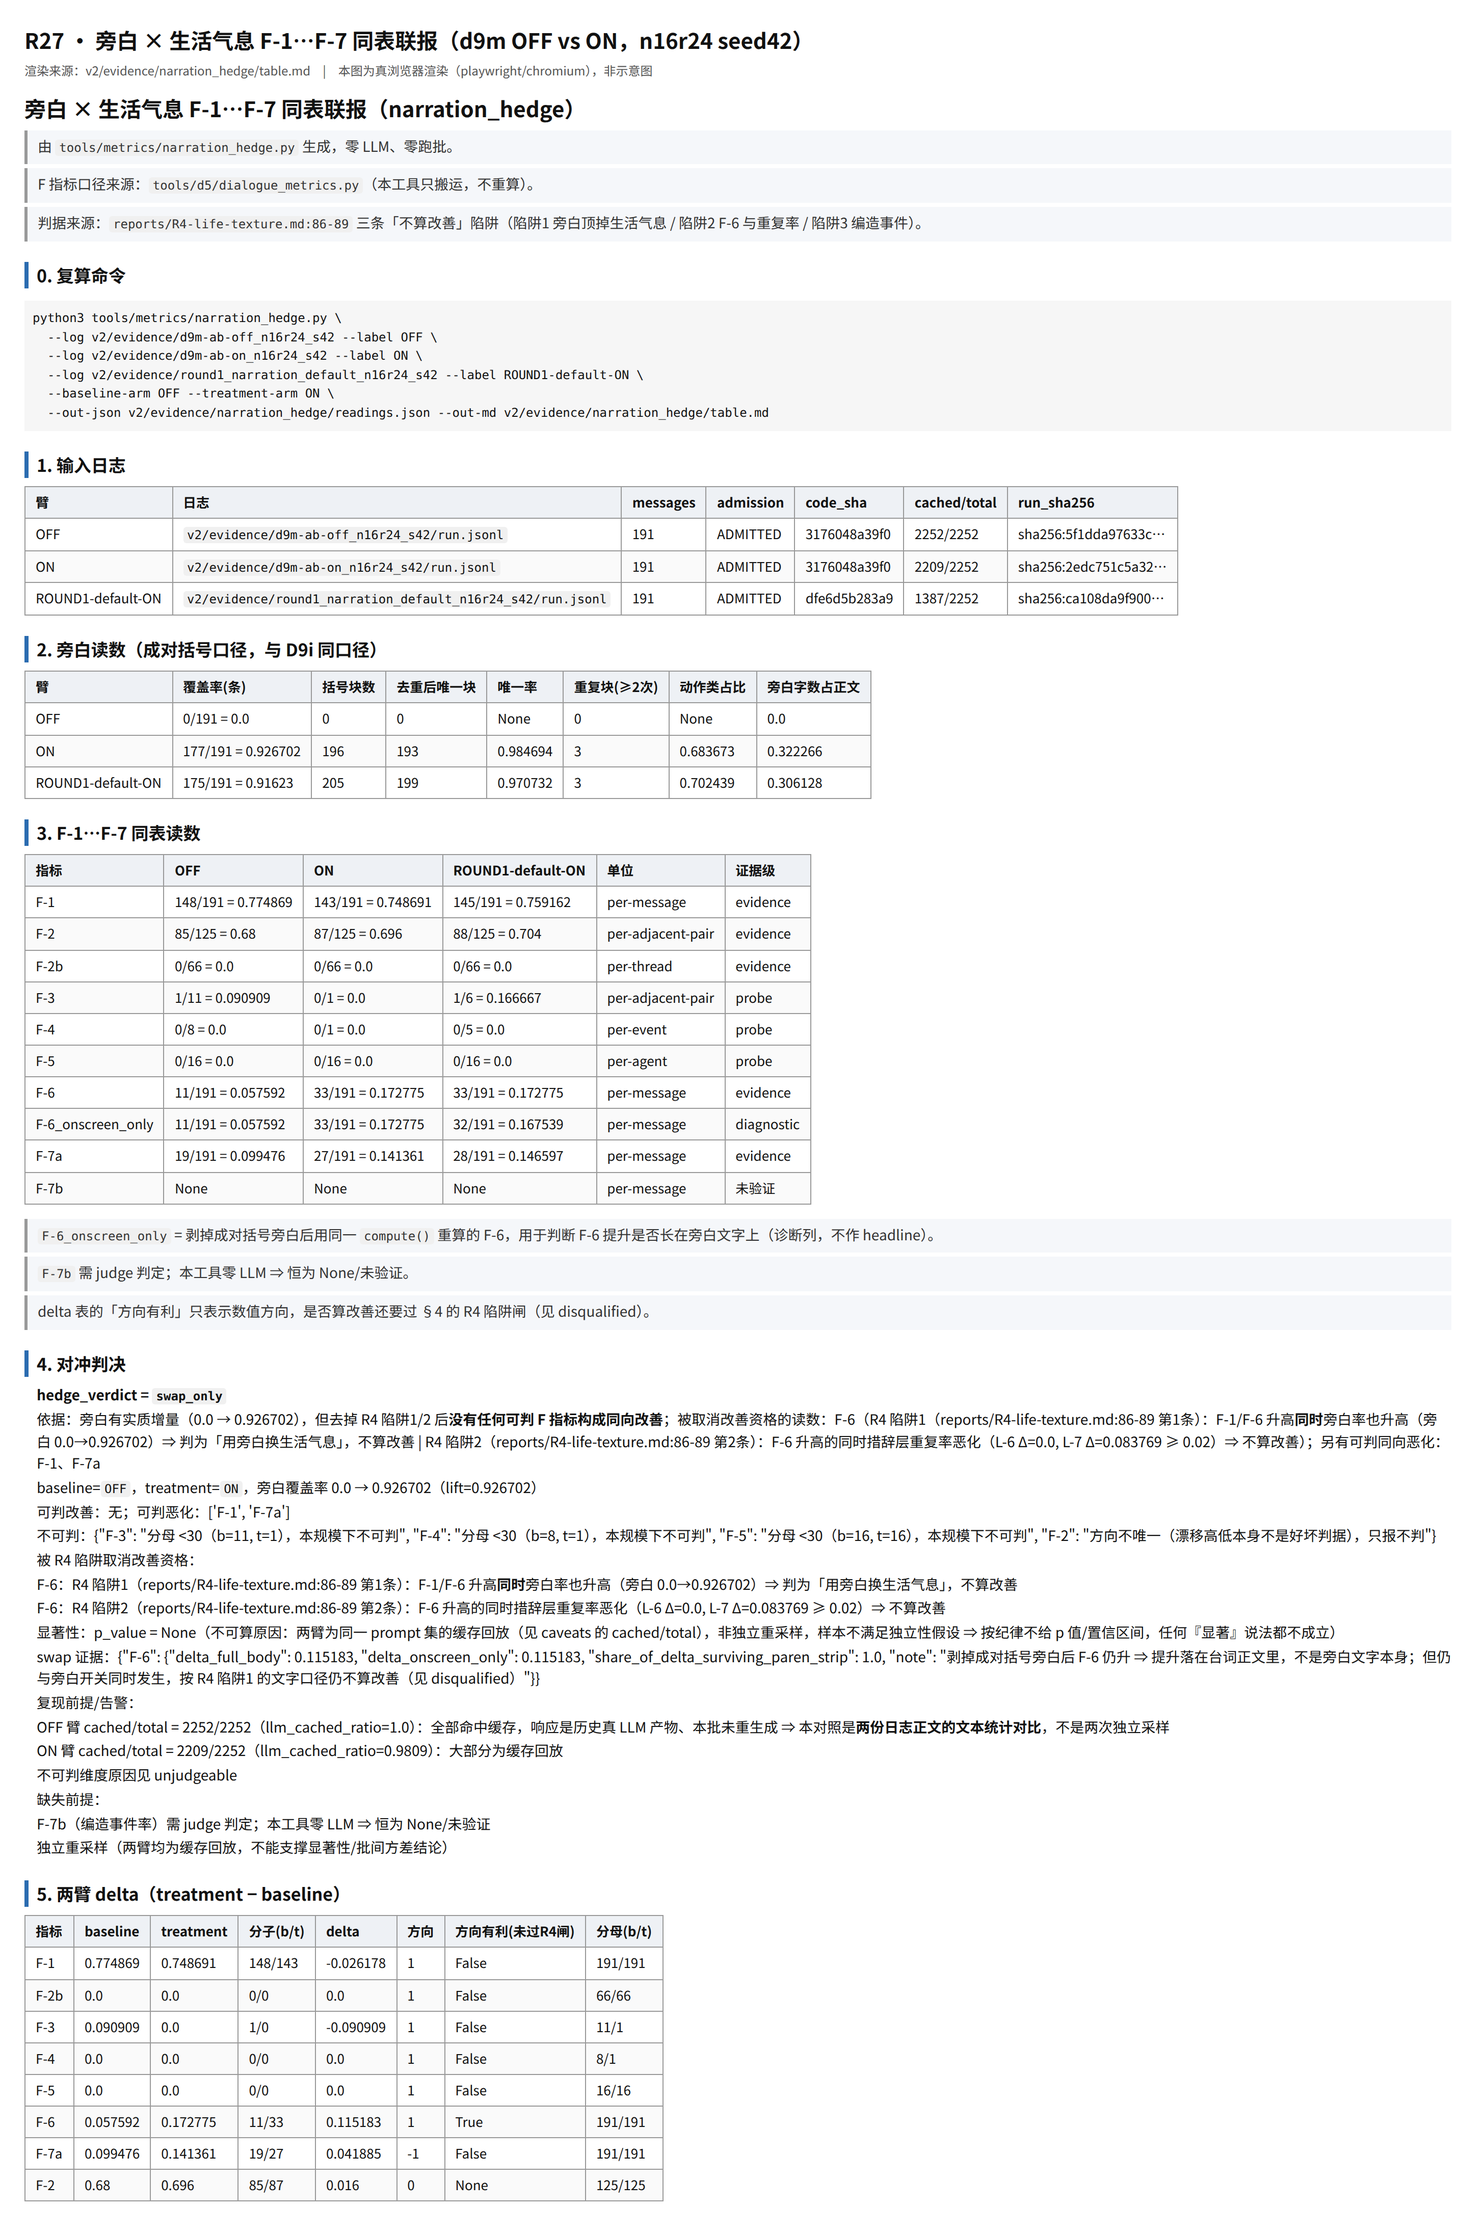
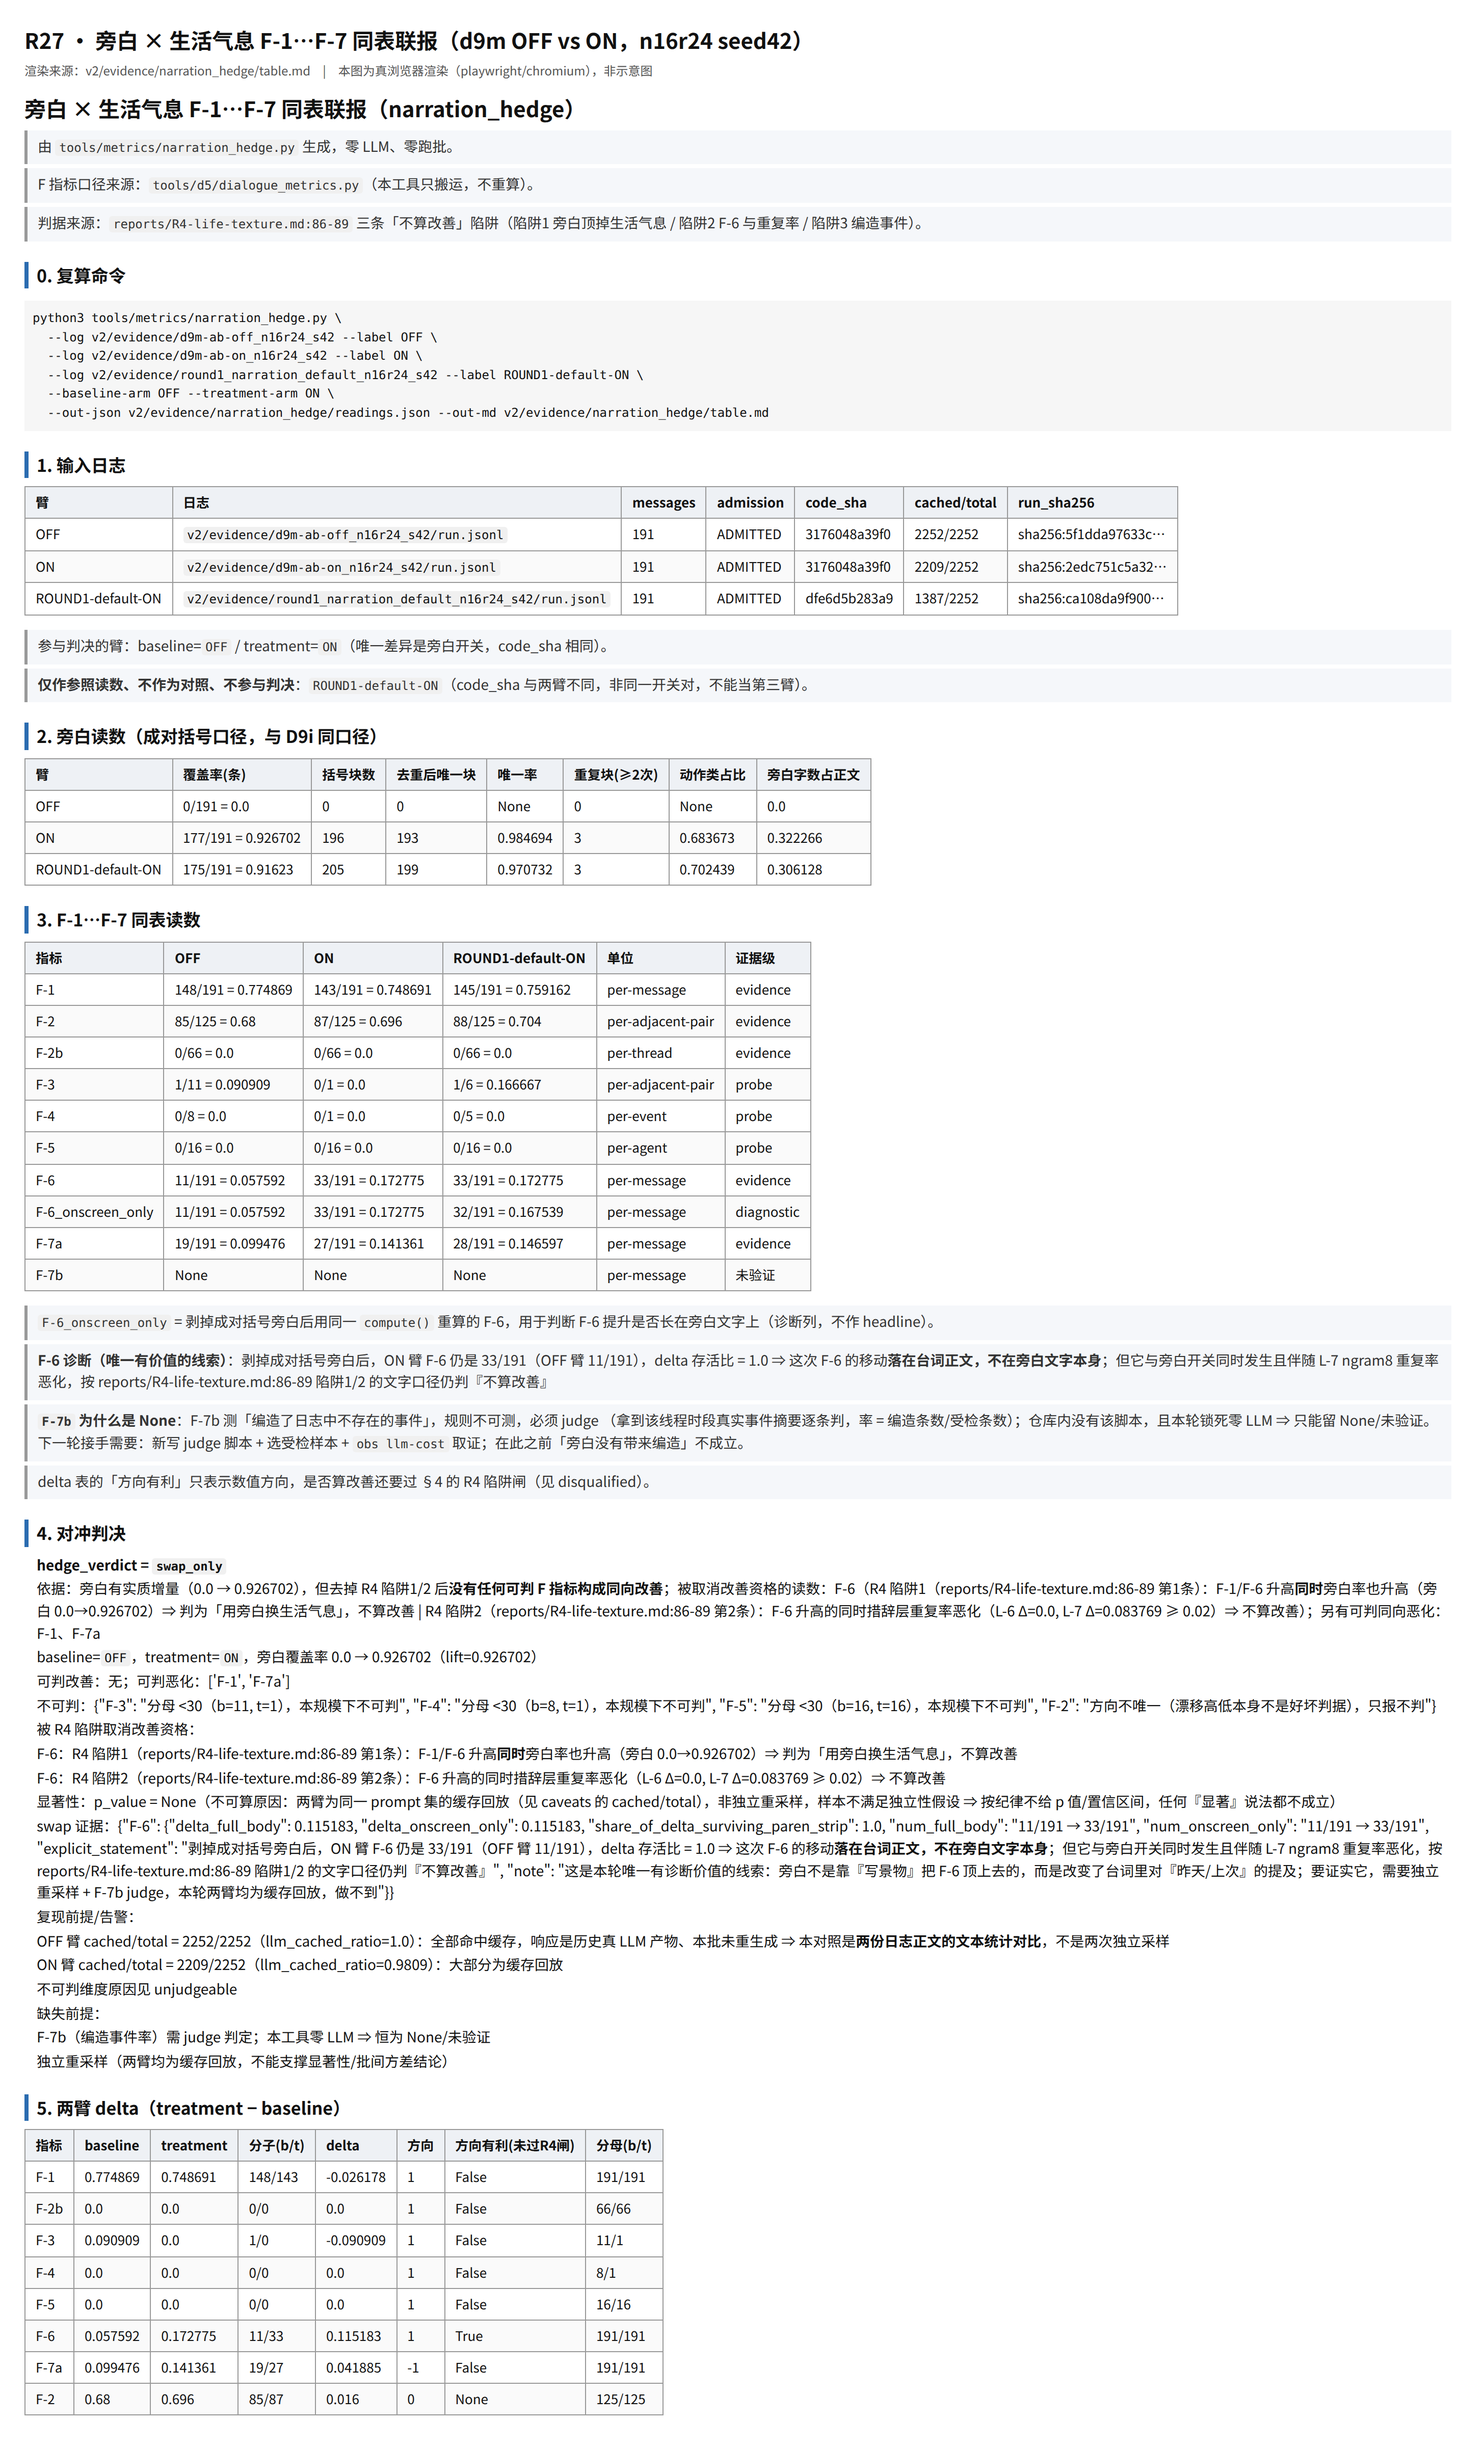
docs(R27): 定性修正 + 出数命令对齐规范形态
- 第二实现明确标为「同作者第二实现/代码级对拍」，不构成第三方复核（脚本 docstring + 报告 §2.7/§5-10/§8）
- §2.6 出数命令改为规范形态（含 ROUND1 参照臂 reference_only），并实测复跑逐字节一致
- 修正读数文件 sha（1574aaca/0ece5522）；补 §3.4 参照臂真实读数表
- 截图按含参照臂的 table.md 重出，sha256 e33b9a30…5922（旧版 256e319e 作废）

Changed region(s): [[0.0, 0.0, 0.9688, 0.9995], [0.9375, 0.531, 0.9688, 0.5622], [0.6875, 0.531, 0.7188, 0.5622]]

diff --git a/v2/evidence/narration_hedge/recompute_by_round_scribe.py b/v2/evidence/narration_hedge/recompute_by_round_scribe.py
@@ -1,6 +1,10 @@
 #!/usr/bin/env python3
 # -*- coding: utf-8 -*-
-"""R27 独立复算器（round-scribe 侧交叉核对用；零 LLM、只读既有 run.jsonl）。
+"""R27 复算器（round-scribe 侧**同作者第二实现**；零 LLM、只读既有 run.jsonl）。
+
+★ 定性（务必不要误读）：这是**同一作者（round-scribe）**另写的一份实现，只做**代码级对拍**
+——同一批日志、同一 d5 口径，换一套代码路径复算。它**不构成第三方独立复核**；
+第三方复核以 runtime-ops 的 `round-crosscheck-narration-hedge.md` 为准（截至本提交尚未回填）。
 
 做两件事，一条命令出全部数字：
   1) 旁白统计 N-1…N-4（成对括号口径，与 tools/d5 的 PAREN 口径同族）；

diff --git a/reports/R27-narration-hedge.md b/reports/R27-narration-hedge.md
@@ -157,16 +157,24 @@ wc -l v2/evidence/d9m-ab-{off,on}_n16r24_s42/run.jsonl; sha256sum v2/evidence/d9
 
 ### 2.6 出数命令（本报告全部数字的唯一来源）
 
+> 命令为**出数器的规范形态**：第三个 `--log` 是**参照臂**（`arms_role = reference_only`），只为留痕、**不参与判决**（见 §3.4）。
+
 ```bash
 python3 tools/metrics/narration_hedge.py \
   --log v2/evidence/d9m-ab-off_n16r24_s42 --label OFF \
   --log v2/evidence/d9m-ab-on_n16r24_s42  --label ON \
+  --log v2/evidence/round1_narration_default_n16r24_s42 --label ROUND1-default-ON \
   --baseline-arm OFF --treatment-arm ON \
   --out-json v2/evidence/narration_hedge/readings.json \
   --out-md   v2/evidence/narration_hedge/table.md
 ```
 
[1 lines of base64/hex data omitted]
+**复算一致性（实测）**：用上述命令**原样再跑一次**（输出改到 `/tmp`）与入库文件逐字节比对 ⇒ `readings_byte_identical: True`、`table_byte_identical: True`。
[1 lines of base64/hex data omitted]
+
+> ⚠ **注意命令必须与上面完全一致**：`--log` 的臂集合会被写进 `recompute_command` 字段与 `arms` 表，少写参照臂会让产出**不是**这两个 sha（数值读数不变，但文件不同字节）。这类"参数不同 ⇒ 字节不同"属于正常，但引用 sha 时必须连带引用命令。
+
+真实输出（退出码 0）：
 
 ```
 hedge_verdict = swap_only
@@ -174,7 +182,7 @@ reason: 旁白有实质增量（0.0 → 0.926702），但去掉 R4 陷阱1/2 后
 被取消改善资格的读数：F-6（陷阱1 + 陷阱2）；另有可判同向恶化：F-1、F-7a
 ```
 
-### 2.7 独立交叉核对（第二份互不共享代码的实现）
+### 2.7 同作者第二实现的对拍（**不是第三方复核**，见 §5 第 10 条）
 
 ```bash
 python3 v2/evidence/narration_hedge/recompute_by_round_scribe.py \
@@ -234,12 +242,24 @@ F-4 +0.000000 | F-5 +0.000000 | F-6 +0.115183 | F-7a +0.041885   ← 8/8 与 met
 2. 但按 `R4:88` 的文字口径，**「F-6 升高 + 旁白率同升」同时成立即判换词**，所以它仍**不算改善**。
 3. **给下一轮的口子**：值得单独开一个「旁白 ON 对台词正文时间回指的影响」臂，用重复率受控的对照来判断这 +11.52pp 是"更会提过去"还是"更套路地塞昨天"（本轮 L-7 恶化 +8.38pp 倾向于后者，但**未做逐条归因，属未验证**）。
 
-### 3.4 参照臂（**不参与判决**）
+### 3.4 参照臂（**不参与判决**，`arms_role = reference_only`）
 
-`round1_narration_default_n16r24_s42`（`code_sha dfe6d5b2…`、`events=33845`、n16r24 seed42、旁白默认 ON）与 d9m 两臂**代码树不同**，只作旁白默认化后的「同规模快照」参照：
+`round1_narration_default_n16r24_s42`（`code_sha dfe6d5b283a9e37f9d3f2373e1b8224fd15d609f`、`events=33845`、n16r24 seed42、旁白默认 ON、`cached 1387/2252`）**与 d9m 两臂代码树不同**（`dfe6d5b2` vs `3176048a`），只作旁白默认化后的「同规模快照」参照。它由 §2.6 的 `--log ... --label ROUND1-default-ON` 一并出数（`readings.json` 里 `arms_role = reference_only`）：
 
-- 其 `narration_stats.json` 记录：`191` 条消息里 `175` 条含成对括号（rate `0.91623`）、`205` 个括号块、动作类 `144/205`。
-- **本报告不用它算任何 delta、不参与 `hedge_verdict`**；任何人不得把它当第三臂或第三组对照。
+| 项 | ROUND1-default-ON（参照） |
+|---|---|
+| 旁白覆盖率 | `175/191 = 0.91623`（91.62%） |
+| 括号块数 / 重复块(≥2 次) | `205` / `3`（块/条 = 1.073298） |
+| 动作类占比 | `144/205 = 0.702439` |
+| L-2 旁白代理率 / L-3 括号块任意率 | `0.863874` / `0.91623` |
+| L-7 8-gram 撞车率 | `0.209424` |
+| F-1 / F-2 / F-2b | `145/191 = 0.759162` / `88/125 = 0.704` / `0/66 = 0.0` |
+| F-3 / F-4 / F-5 | `1/6 = 0.166667`（probe）/ `0/5 = 0.0`（probe）/ `0/16 = 0.0`（probe） |
+| F-6 / F-7a | `33/191 = 0.172775` / `28/191 = 0.146597` |
+
+- **本报告不用它算任何 delta、不参与 `hedge_verdict`**（工具把它标 `reference_only`，判决只用 `OFF` vs `ON`）。
+- 任何人不得把它当第三臂或第三个对照结论；它的唯一用途是「旁白默认 ON 之后，另一棵代码树上的同规模快照长什么样」。
+- 一个必须避免的误读：它与 d9m-ON 臂的旁白覆盖率几乎相同（91.62% vs 92.67%）**但 code_sha 不同**，**不得据此推导「旁白行为稳定/可复现」**——那需要同代码树的重复批，本轮没有。
 
 ---
 
@@ -279,6 +299,7 @@ F-4 +0.000000 | F-5 +0.000000 | F-6 +0.115183 | F-7a +0.041885   ← 8/8 与 met
 7. **日志所属代码树 ≠ 分析基准**：读数绑定 `3176048a`（worktree `narration-action-diversity`），不是当前 HEAD `0b14183a`；**不得把本报告数字挪用到 `0b14183a`**。
 8. **`F-5 习惯强度` 结构性为 0**：本批只跑 1 个模拟日（`max_repeat_days_mean = 1.75`，`<3 天`），该维度在本规模下**天然不可能非零**，不是旁白导致的下降。
 9. **runtime-ops 独立复核（t-crosscheck-narration）未回填**：本轮 push 时该复核结论尚未落盘 ⇒ 见 `round-crosscheck-narration-hedge.md`（待补）。**本报告不替它写任何结论。**
+10. **「第二实现」的性质必须读对**：`v2/evidence/narration_hedge/recompute_by_round_scribe.py` 是**同一作者（round-scribe）**另写的实现，只做**代码级对拍**（换一套代码路径、同一 d5 口径复算同一批日志），**不构成第三方独立复核**。它的价值是「排除单点实现错误」，不是「外部验证」。**真正的第三方复核以 runtime-ops 的 `round-crosscheck-narration-hedge.md` 为准**（截至本提交未回填）；两件事不得混为一谈，也不得拿前者顶替后者。
 
 ---
 
@@ -290,7 +311,7 @@ F-4 +0.000000 | F-5 +0.000000 | F-6 +0.115183 | F-7a +0.041885   ← 8/8 与 met
 | 被读日志代码树 | `3176048a39f0429204adbdb9eac7a975bfe10c72`（两臂相同） |
[1 lines of base64/hex data omitted]
 | 准入 | 两臂均 `ADMITTED`（`strict` / `evidence`），`provider=openai_compat`、`degraded=0` |
-| 读数文件 | `readings.json` `9f96eebf…f999`；`table.md` `6840cb39…a7ad`；交叉核对 `readings_by_round_scribe.json` / `table_by_round_scribe.md`（见 `crosscheck_by_round_scribe.md`） |
[1 lines of base64/hex data omitted]
 | 参照臂（不参与判决） | `round1_narration_default_n16r24_s42`，`code_sha dfe6d5b283a9e37f9d3f2373e1b8224fd15d609f` |
 | 本报告所在提交 | 分支 `feat/round-narration-hedge`（基于 `0b14183a`），pushed sha 见提交回执 / §8 |
 
@@ -314,13 +335,14 @@ html: /root/narration_hedge_prep/narration_hedge_table.html
 png ($HOME): /root/narration_hedge_prep/narration_hedge_table.png
 png (copied into repo): v2/evidence/narration_hedge_shots/narration_hedge_table.png
 cmp_identical: True
-bytes: 1141154
-sha256: 256e319e0137ab0377dad6017663d4192cbde742d967bdf241f215aaffe9e4a6
+bytes: 1403990
+sha256: e33b9a30891ba2b5cfa06020f089bd4a3d17a1779a6072f9092654e46dbf5922
 clip_check: {'tables': 4, 'overflowX': False}
-size: (2912, 4386)   mean_brightness: 244.1
+size: (2912, 4806)   mean_brightness: 243.0
 ```
 
-- 产物：`v2/evidence/narration_hedge_shots/narration_hedge_table.png`（`sha256 256e319e0137ab0377dad6017663d4192cbde742d967bdf241f215aaffe9e4a6`，2912×4386，`mean_brightness 244.1` 非黑图，4 张表无横向溢出）
+- 产物：`v2/evidence/narration_hedge_shots/narration_hedge_table.png`（`sha256 e33b9a30891ba2b5cfa06020f089bd4a3d17a1779a6072f9092654e46dbf5922`，2912×4806，`mean_brightness 243.0` 非黑图，4 张表无横向溢出）
+- 说明：本图对应**含参照臂**的 `table.md`（§2.6 规范命令产物），故与上一版（不含参照臂、`256e319e…`）字节不同；旧版已作废，勿引用。
 - 渲染器：`v2/evidence/narration_hedge_shots/render_table_shot.py`（浏览器探测复用 `code/frontend/tools/_chrome.find_chrome()`，**不写死任何家目录/缓存路径**）
 - 说明：图上内容就是 §2.6 生成的 `table.md` 原文，**截图不含任何手工补写的数字**；截图本身**不进判据**，只作可读性凭证。
 
@@ -330,7 +352,7 @@ size: (2912, 4386)   mean_brightness: 244.1
 
 - 出数器：`tools/metrics/narration_hedge.py`（metrics-dev；零 LLM，F 口径全部转调 d5）
 - 机读读数：`v2/evidence/narration_hedge/readings.json`；人读表：`v2/evidence/narration_hedge/table.md`
-- 独立交叉核对（scribe 侧）：`v2/evidence/narration_hedge/recompute_by_round_scribe.py` + `readings_by_round_scribe.json` / `table_by_round_scribe.md` / `crosscheck_by_round_scribe.md`（8/8 delta 一致、判决一致）
+- **同作者第二实现**（代码级对拍，**不构成第三方复核**）：`v2/evidence/narration_hedge/recompute_by_round_scribe.py` + `readings_by_round_scribe.json` / `table_by_round_scribe.md` / `crosscheck_by_round_scribe.md`（8/8 delta 一致、判决一致）
 - 截图：`v2/evidence/narration_hedge_shots/narration_hedge_table.png` + `render_table_shot.py`
 - 上游口径：`reports/R4-life-texture.md:28-44`（定义式）、`:86-89`（三条「不算改善」陷阱）
 - 待补：`round-crosscheck-narration-hedge.md`（runtime-ops 独立复核，本轮 push 时未回填）

diff --git a/v2/evidence/narration_hedge/crosscheck_by_round_scribe.md b/v2/evidence/narration_hedge/crosscheck_by_round_scribe.md
@@ -1,6 +1,6 @@
-# R27 交叉核对：metrics-dev 出数器 vs round-scribe 独立复算器
+# R27 交叉核对：metrics-dev 出数器 vs round-scribe **同作者第二实现**（代码级对拍，非第三方复核）
 
-两份实现**互不共享代码**：scribe 版直接调 `tools/d5/dialogue_metrics.py` CLI 并自算旁白括号统计；metrics-dev 版调其 `main()` 并复用 `tools/d9i/narration_stats.py` 的旁白正则。二者对同一对日志算 delta。
+两份实现**互不共享代码**（但**同一作者**：round-scribe 自己另写的一份，只做代码级对拍 ⇒ **不构成第三方独立复核**；第三方复核以 runtime-ops 的 `round-crosscheck-narration-hedge.md` 为准，截至本提交尚未回填）：scribe 版直接调 `tools/d5/dialogue_metrics.py` CLI 并自算旁白括号统计；metrics-dev 版调其 `main()` 并复用 `tools/d9i/narration_stats.py` 的旁白正则。二者对同一对日志算 delta。
 
 > 指标名映射：scribe 表里 `F-7`（越界提及率）≡ metrics-dev 的 `F-7a`（同一条 d5 `F-7a_offscreen_mention`）。
 
@@ -32,8 +32,8 @@ python3 v2/evidence/narration_hedge/recompute_by_round_scribe.py \
 ```
 
 ## 文件指纹（sha256）
[8 lines of base64/hex data omitted]
